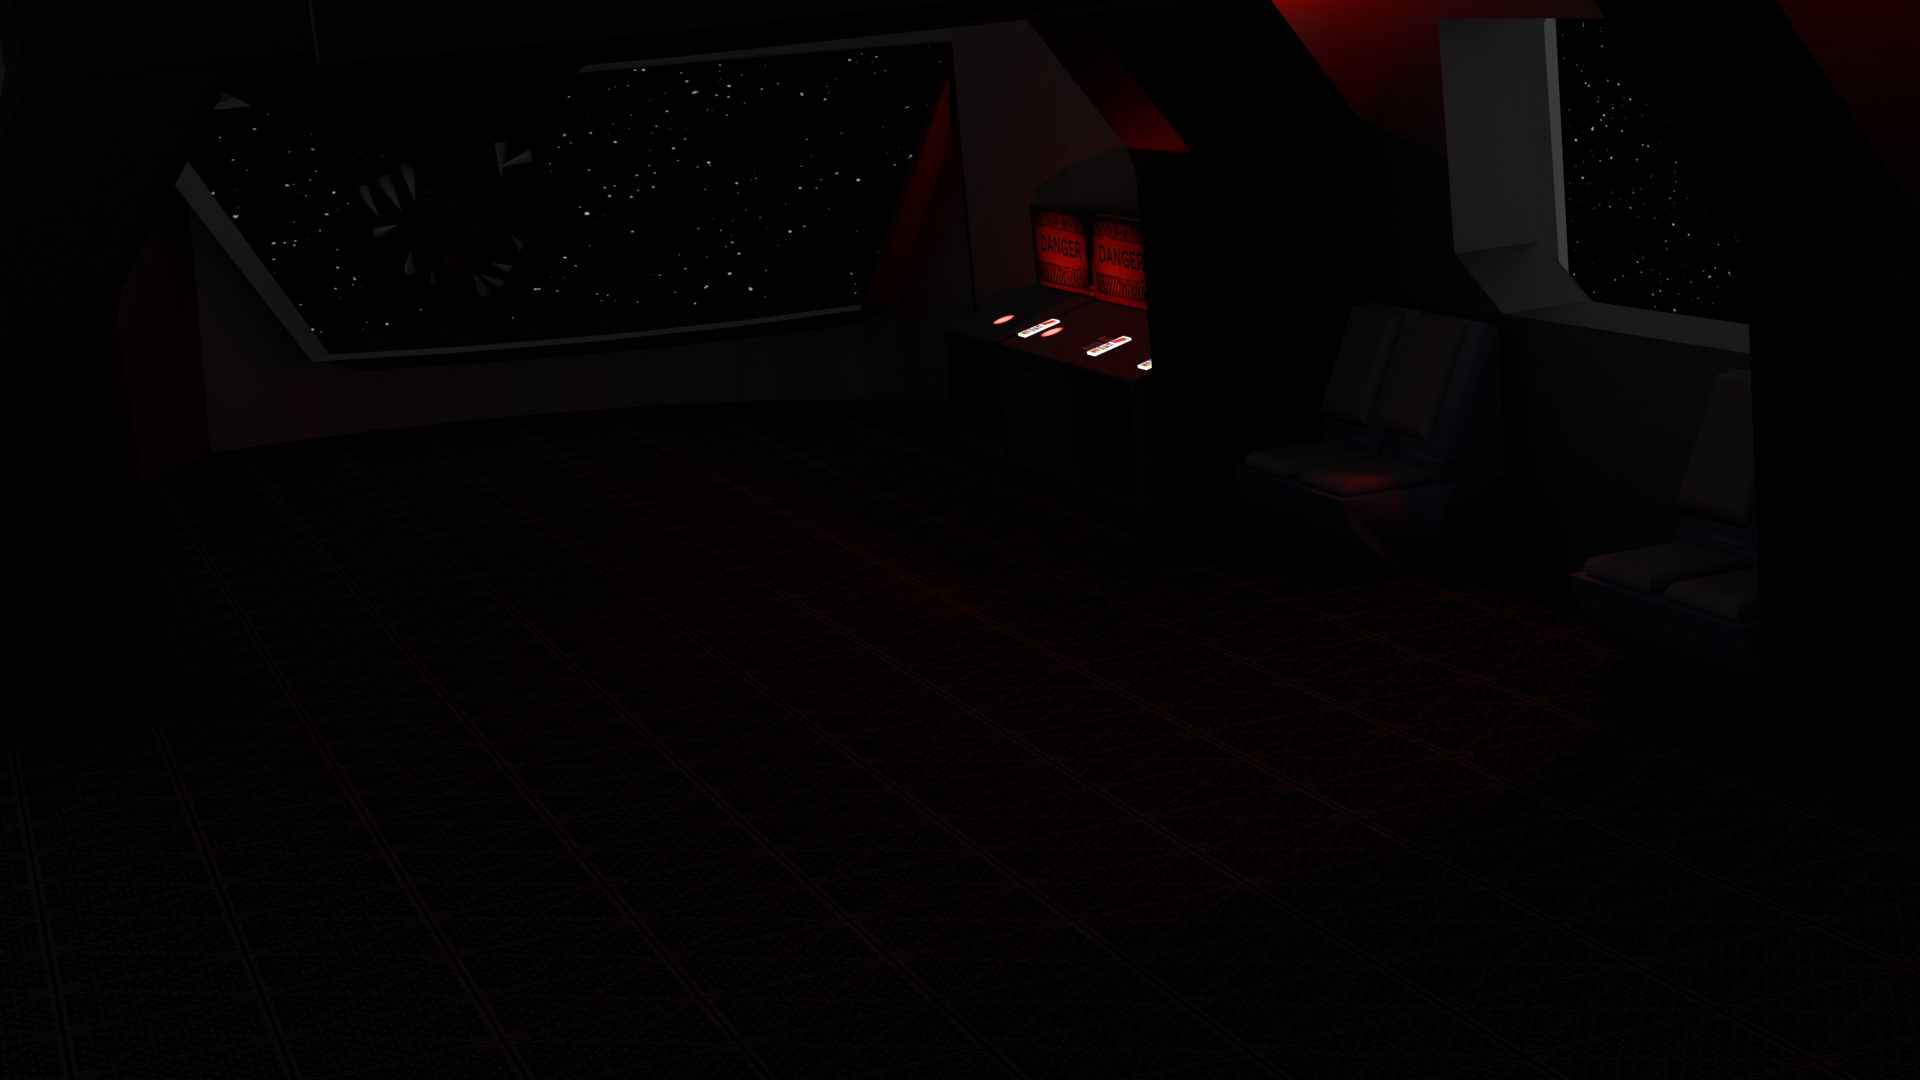
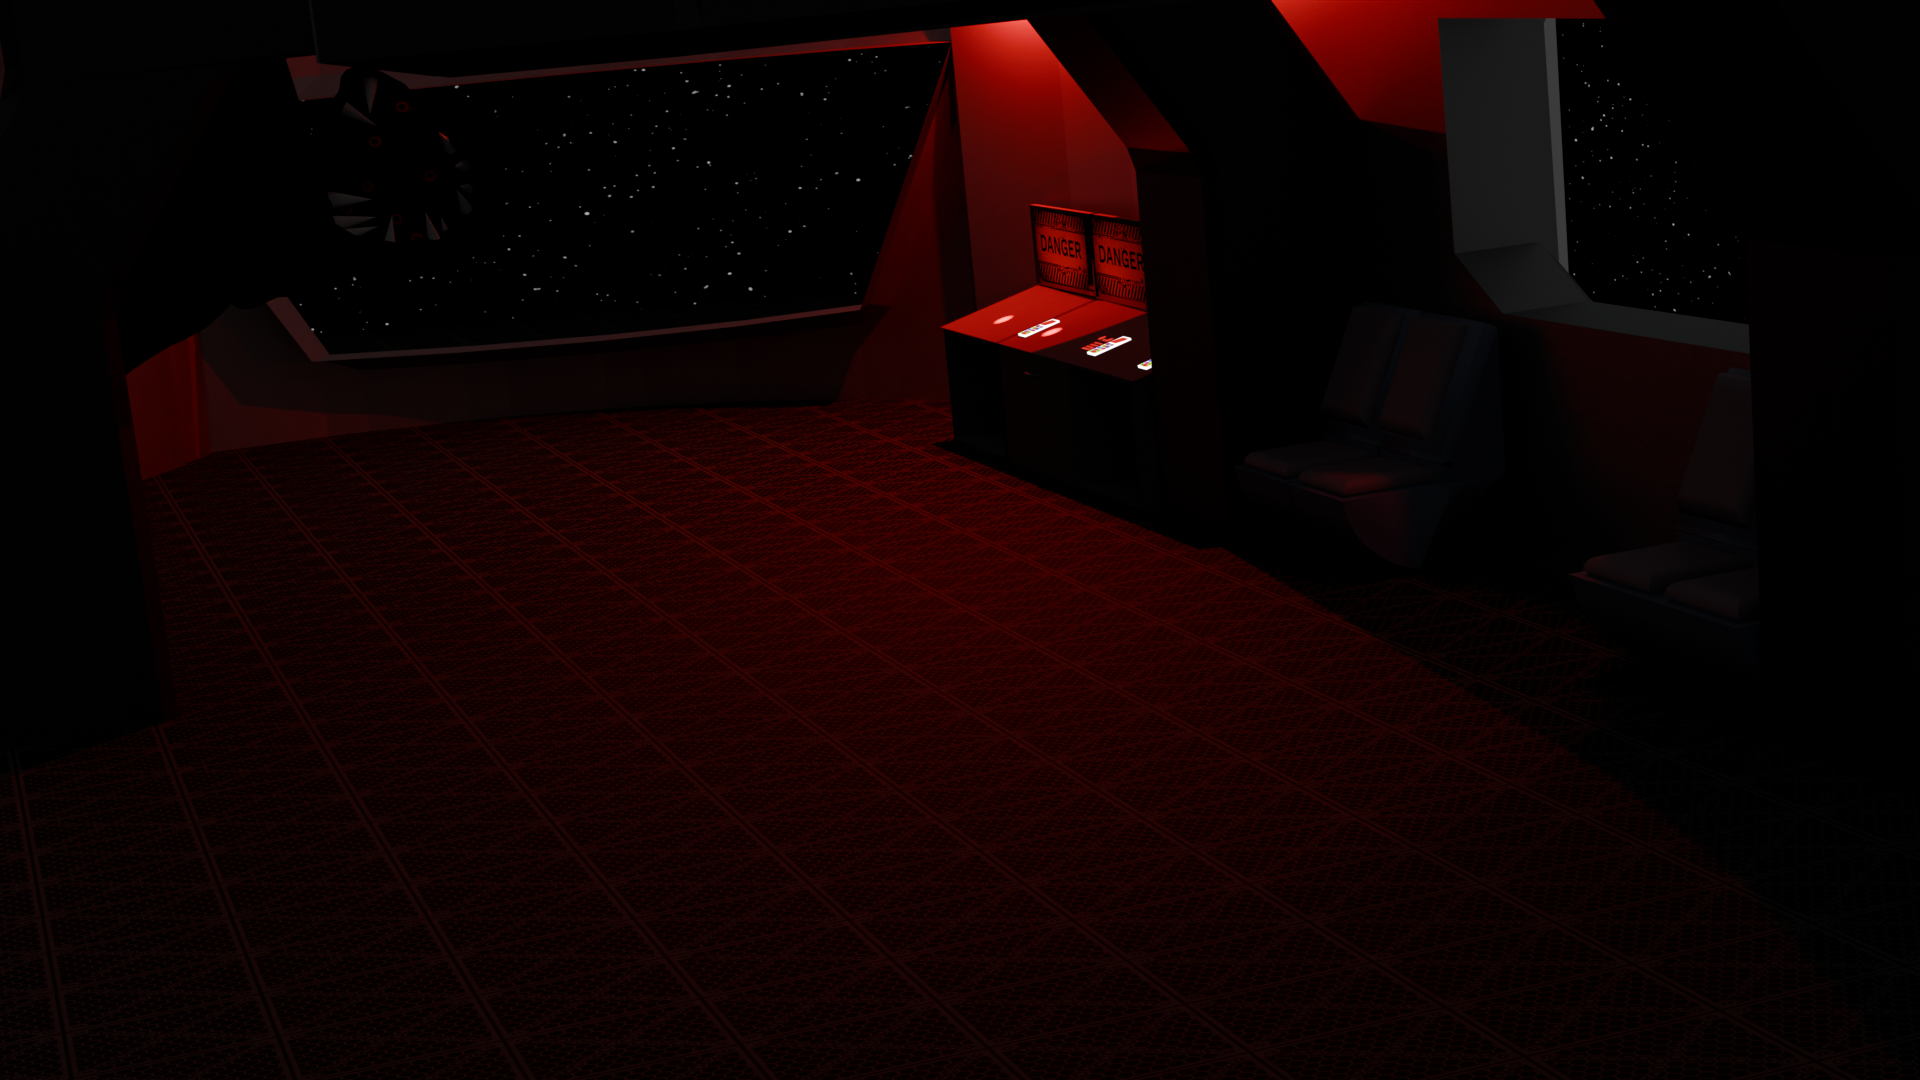
remade backgrounds

diff --git a/src/game_core.c b/src/game_core.c
@@ -31,7 +31,13 @@ void change_camera(case_t * camera, case_t * monster){
     }
 
     if(camera8on && camera->num_camera == CAMERA_1){
-        if (monster->num_camera == CAMERA_1)
+        if(mimic != NULL && mimic->num_camera == CAMERA_1){
+                if(monster->num_camera == CAMERA_1)
+                    background = MONITOR_ROOM_MI_M;
+                else
+                    background = MONITOR_ROOM_MI;
+            }
+        else if (monster->num_camera == CAMERA_1)
             background = MONITOR_ROOM_M;
         else
             background = MONITOR_ROOM;
@@ -271,19 +277,38 @@ void game_init(SDL_Renderer* renderer, SDL_Window* window, TTF_Font* fontBattery
     //Load Textures ( interminable )
     if (BLACKOUT == NULL) {
         BLACKOUT = IMG_LoadTexture(renderer, "./assets/img/INgame/BLACKOUT.png");
-        DOORS_OFF_L_OFF = IMG_LoadTexture(renderer, "./assets/img/INgame/DOORS_OFF_L_OFF.png");
-        DOORS_OFF_L_ON = IMG_LoadTexture(renderer, "./assets/img/INgame/DOORS_OFF_L_ON.png");
-        DOORS_ON_L_ON = IMG_LoadTexture(renderer, "./assets/img/INgame/DOORS_ON_L_ON.png");
-        L_DOOR_OFF_L_ON = IMG_LoadTexture(renderer, "./assets/img/INgame/L_DOOR_OFF_L_ON.png");
-        L_DOOR_ON_L_OFF = IMG_LoadTexture(renderer, "./assets/img/INgame/L_DOOR_ON_L_OFF.png");
-        L_DOOR_ON_L_ON = IMG_LoadTexture(renderer, "./assets/img/INgame/L_DOOR_ON_L_ON.png");
-        R_DOOR_OFF_L_ON = IMG_LoadTexture(renderer, "./assets/img/INgame/R_DOOR_OFF_L_ON.png");
-        R_DOOR_ON_L_OFF = IMG_LoadTexture(renderer, "./assets/img/INgame/R_DOOR_ON_L_OFF.png");
-        R_DOOR_ON_L_ON = IMG_LoadTexture(renderer, "./assets/img/INgame/R_DOOR_ON_L_ON.png");
+
+       // Load Textures (internimable)
+int BLACKOUT = NULL;
+BLACKOUT = IMG_LoadTexture(renderer, "assets/img/InGame/BLACKOUT.png");
+
+R_D_OFF_LI_OFF_L_D_OFF_LI_OFF = IMG_LoadTexture(renderer, "assets/img/InGame/R_D_OFF_LI_OFF_L_D_OFF_LI_OFF.png");
+R_D_OFF_LI_OFF_L_OFF_LI_ON_M_W = IMG_LoadTexture(renderer, "assets/img/InGame/R_D_OFF_LI_OFF_L_D_OFF_LI_ON_M_W.png");
+R_D_OFF_LI_OFF_L_D_OFF_LI_ON_M = IMG_LoadTexture(renderer, "assets/img/InGame/R_D_OFF_LI_OFF_L_D_OFF_LI_ON_M.png");
+R_D_OFF_LI_OFF_L_D_OFF_LI_ON = IMG_LoadTexture(renderer, "assets/img/InGame/R_D_OFF_LI_OFF_L_D_OFF_LI_ON.png");
+R_D_OFF_LI_OFF_L_D_ON_LI_OFF = IMG_LoadTexture(renderer, "assets/img/InGame/R_D_OFF_LI_OFF_L_D_ON_LI_OFF.png");
+R_D_OFF_LI_ON_L_D_OFF_LI_OFF_M_W = IMG_LoadTexture(renderer, "assets/img/InGame/R_D_OFF_LI_ON_L_D_OFF_LI_OFF_M_W.png");
+R_D_OFF_LI_ON_L_D_OFF_LI_OFF_M = IMG_LoadTexture(renderer, "assets/img/InGame/R_D_OFF_LI_ON_L_D_OFF_LI_OFF_M.png");
+R_D_OFF_LI_ON_L_D_OFF_LI_OFF = IMG_LoadTexture(renderer, "assets/img/InGame/R_D_OFF_LI_ON_L_D_OFF_LI_OFF.png");
+R_D_OFF_LI_ON_L_D_OFF_LI_ON_M_D = IMG_LoadTexture(renderer, "assets/img/InGame/R_D_OFF_LI_ON_L_D_OFF_LI_ON_M_D.png");
+R_D_OFF_LI_ON_L_D_OFF_LI_ON_M_W_D = IMG_LoadTexture(renderer, "assets/img/InGame/R_D_OFF_LI_ON_L_D_OFF_LI_ON_M_W_D.png");
+R_D_OFF_LI_ON_L_D_OFF_LI_ON_M_W = IMG_LoadTexture(renderer, "assets/img/InGame/R_D_OFF_LI_ON_L_D_OFF_LI_ON_M_W.png");
+R_D_OFF_LI_ON_L_D_OFF_LI_ON_M = IMG_LoadTexture(renderer, "assets/img/InGame/R_D_OFF_LI_ON_L_D_OFF_LI_ON_M.png");
+R_D_OFF_LI_ON_L_D_OFF_LI_ON = IMG_LoadTexture(renderer, "assets/img/InGame/R_D_OFF_LI_ON_L_D_OFF_LI_ON.png");
+R_D_OFF_LI_ON_L_D_ON_LI_OFF = IMG_LoadTexture(renderer, "assets/img/InGame/R_D_OFF_LI_ON_L_D_ON_LI_OFF.png");
+R_D_ON_LI_OFF_L_D_OFF_LI_OFF = IMG_LoadTexture(renderer, "assets/img/InGame/R_D_ON_LI_OFF_L_D_OFF_LI_OFF.png");
+R_D_ON_LI_OFF_L_D_OFF_LI_ON = IMG_LoadTexture(renderer, "assets/img/InGame/R_D_ON_LI_OFF_L_D_OFF_LI_ON.png");
+R_D_ON_LI_ON_L_D_OFF_LI_OFF_M = IMG_LoadTexture(renderer, "assets/img/InGame/R_D_ON_LI_ON_L_D_OFF_LI_OFF_M.png");
+R_D_ON_LI_ON_L_D_OFF_LI_OFF = IMG_LoadTexture(renderer, "assets/img/InGame/R_D_ON_LI_ON_L_D_OFF_LI_OFF.png");
+R_D_ON_LI_ON_L_D_OFF_LI_ON = IMG_LoadTexture(renderer, "assets/img/InGame/R_D_ON_LI_ON_L_D_OFF_LI_ON.png");
+R_D_OFF_LI_OFF_L_ON_LI_OFF_ON_M_W = IMG_LoadTexture(renderer, "assets/img/InGame/R_D_OFF_L_OFF_L_ON_LI_ON_M_W.png");
+
         MONITOR_ROOM = IMG_LoadTexture(renderer, "./assets/img/INgame/MONITOR_ROOM.png");
         MONITOR_ROOM_M = IMG_LoadTexture(renderer, "./assets/img/INgame/MONITOR_ROOM_M.png");
         MONITOR_ROOM = IMG_LoadTexture(renderer, "./assets/img/INgame/MONITOR_ROOM.png");
         MONITOR_ROOM_M = IMG_LoadTexture(renderer, "./assets/img/INgame/MONITOR_ROOM_M.png");
+        MONITOR_ROOM_MI = IMG_LoadTexture(renderer, "./assets/img/INgame/MONITOR_ROOM_MI.png");
+        MONITOR_ROOM_MI_M = IMG_LoadTexture(renderer, "./assets/img/INgame/MONITOR_ROOM_MI_M.png");
         COMMAND_ROOM = IMG_LoadTexture(renderer, "./assets/img/INgame/COMMAND_ROOM.png");
         COMMAND_ROOM_M = IMG_LoadTexture(renderer, "./assets/img/INgame/COMMAND_ROOM_M.png");
         CORRIDOR = IMG_LoadTexture(renderer, "./assets/img/INgame/CORRIDOR.png");
@@ -403,7 +428,7 @@ void game_init(SDL_Renderer* renderer, SDL_Window* window, TTF_Font* fontBattery
         
         actual = buttons_getDoorCount();
         if (lightCount >= 2)
-            background = DOORS_OFF_L_ON;
+            background = R_D_OFF_LI_ON_L_D_OFF_LI_ON;
 
 
         /*=DIFFERENTS DISPLAYS OF EACH BACKGROUND=*/

diff --git a/src/renderer.c b/src/renderer.c
@@ -294,40 +294,24 @@ void affichage(){
             ouverture_porte_gauche(map, joueur);
             ouverture_porte_droite(map, joueur);
         }
-        else if(lumiereDroiteActive && !porteDroiteActive){
-            if(monster->num_camera == PORTE_HAUT-1){
-                background = MONSTER_R_DOOR_O;
-            }
-        else if(monster->num_camera == PORTE_HAUT){
-                background = MONSTER_R_DOOR_O_A;
-            }
-            else
-                background = R_DOOR_OFF_L_ON;
+        else if(!porteDroiteActive && !lumiereDroiteActive && !porteGaucheActive && !lumiereGaucheActive){
+            background = R_D_OFF_LI_OFF_L_OFF_L_OFF_LI_OFF;
         }
-        else if(lumiereGaucheActive && !porteGaucheActive){
-            if(monster->num_camera == PORTE_BAS-1){
-                background = MONSTER_L_DOOR_O;
-            }
-            else if(monster->num_camera == PORTE_BAS){
-                background = MONSTER_L_DOOR_O_A;
-            }
-            else 
-                background = L_DOOR_OFF_L_ON;
+         else if(porteDroiteActive && porteGaucheActive && !lumiereDroiteActive && !lumiereGaucheActive){
+            background = R_D_OFF_LI_OFF_L_OFF_L_ON_LI_OFF;
         }
-        else if(porteGaucheActive && !lumiereGaucheActive){
-            background = L_DOOR_ON_L_OFF;
+        else if(!porteDroiteActive && !porteGaucheActive && lumiereDroiteActive && lumiereGaucheActive){
+            background = R_D_ON_LI_ON_L_D_OFF_LI_OFF;
         }
-        else if(porteDroiteActive && !lumiereDroiteActive){
-            background = R_DOOR_ON_L_OFF;
+        else if(!porteDroiteActive && !porteGaucheActive && lumiereDroiteActive && !lumiereGaucheActive){
+            background = R_D_ON_LI_OFF_L_D_OFF_LI_OFF;
         }
-        else if(porteGaucheActive && lumiereGaucheActive){
-            background = L_DOOR_ON_L_ON;
+        else if(!porteDroiteActive && !porteGaucheActive && !lumiereDroiteActive && lumiereGaucheActive){
+            background = R_D_OFF_LI_ON_L_D_OFF_LI_OFF;
+            
         }
-        else if(porteDroiteActive && lumiereDroiteActive){
-            background = R_DOOR_ON_L_ON;
-        }
-        else
-            background = DOORS_OFF_L_OFF;
+
+        
     }
     //If the monitor is on we display the camera backgrounds
     else{

diff --git a/lib/constantes.h b/lib/constantes.h
@@ -102,17 +102,31 @@ extern case_t *monster;
 extern case_t *mimic;
 extern SDL_Texture *background;
 extern SDL_Texture *BLACKOUT;
-extern SDL_Texture *DOORS_OFF_L_OFF;
-extern SDL_Texture *DOORS_OFF_L_ON;
-extern SDL_Texture *DOORS_ON_L_ON;
-extern SDL_Texture *L_DOOR_OFF_L_ON;
-extern SDL_Texture *L_DOOR_ON_L_OFF;
-extern SDL_Texture *L_DOOR_ON_L_ON;
-extern SDL_Texture *R_DOOR_OFF_L_ON;
-extern SDL_Texture *R_DOOR_ON_L_OFF;
-extern SDL_Texture *R_DOOR_ON_L_ON;
+extern SDL_Texture *R_D_OFF_LI_OFF_L_D_OFF_LI_OFF;
+extern SDL_Texture *R_D_OFF_LI_OFF_L_OFF_LI_ON_M_W;
+extern SDL_Texture *R_D_OFF_LI_OFF_L_D_OFF_LI_ON_M ;
+extern SDL_Texture *R_D_OFF_LI_OFF_L_D_OFF_LI_ON ;
+extern SDL_Texture *R_D_OFF_LI_OFF_L_D_ON_LI_OFF ;
+extern SDL_Texture *R_D_OFF_LI_ON_L_D_OFF_LI_OFF_M_W ;
+extern SDL_Texture *R_D_OFF_LI_ON_L_D_OFF_LI_OFF_M ;
+extern SDL_Texture *R_D_OFF_LI_ON_L_D_OFF_LI_OFF ;
+extern SDL_Texture *R_D_OFF_LI_ON_L_D_OFF_LI_ON_M_D ;
+extern SDL_Texture *R_D_OFF_LI_ON_L_D_OFF_LI_ON_M_W_D ;
+extern SDL_Texture *R_D_OFF_LI_ON_L_D_OFF_LI_ON_M_W ;
+extern SDL_Texture *R_D_OFF_LI_ON_L_D_OFF_LI_ON_M ;
+extern SDL_Texture *R_D_OFF_LI_ON_L_D_OFF_LI_ON ;
+extern SDL_Texture *R_D_OFF_LI_ON_L_D_ON_LI_OFF ;
+extern SDL_Texture *R_D_ON_LI_OFF_L_D_OFF_LI_OFF ;
+extern SDL_Texture *R_D_ON_LI_OFF_L_D_OFF_LI_ON ;
+extern SDL_Texture *R_D_ON_LI_ON_L_D_OFF_L_I_OFF_M ;
+extern SDL_Texture *R_D_ON_LI_ON_L_D_OFF_LI_OFF_M ;
+extern SDL_Texture *R_D_ON_LI_ON_L_D_OFF_LI_OFF ;
+extern SDL_Texture *R_D_ON_LI_ON_L_D_OFF_LI_ON ;
+extern SDL_Texture *R_D_OFF_LI_OFF_L_ON_LI_OFF_ON_M_W ;
 extern SDL_Texture *MONITOR_ROOM;
 extern SDL_Texture *MONITOR_ROOM_M;
+extern SDL_Texture *MONITOR_ROOM_MI;
+extern SDL_Texture *MONITOR_ROOM_MI_M;
 extern SDL_Texture *CORRIDOR;
 extern SDL_Texture *CORRIDOR_M;
 extern SDL_Texture *COMMAND_ROOM;
@@ -173,7 +187,6 @@ extern int lightCount;
 extern Mix_Music* cameraStatic;
 extern Mix_Chunk* cameraSwitch;
 extern Mix_Chunk* doorKnocking;
-
 extern Mix_Chunk* monsterSpawn;
 extern Mix_Chunk* mimicMove;
 #endif

diff --git a/src/constantes.c b/src/constantes.c
@@ -40,17 +40,10 @@ case_t *monster = NULL;
 case_t *mimic = NULL;
 SDL_Texture *background = NULL;
 SDL_Texture *BLACKOUT = NULL;
-SDL_Texture *DOORS_OFF_L_OFF = NULL;
-SDL_Texture *DOORS_OFF_L_ON = NULL;
-SDL_Texture *DOORS_ON_L_ON = NULL;
-SDL_Texture *L_DOOR_OFF_L_ON = NULL;
-SDL_Texture *L_DOOR_ON_L_OFF = NULL;
-SDL_Texture *L_DOOR_ON_L_ON = NULL;
-SDL_Texture *R_DOOR_OFF_L_ON = NULL;
-SDL_Texture *R_DOOR_ON_L_OFF = NULL;
-SDL_Texture *R_DOOR_ON_L_ON = NULL;
 SDL_Texture *MONITOR_ROOM = NULL;
 SDL_Texture *MONITOR_ROOM_M = NULL;
+SDL_Texture *MONITOR_ROOM_MI = NULL;
+SDL_Texture *MONITOR_ROOM_MI_M = NULL;
 SDL_Texture *COMMAND_ROOM = NULL;
 SDL_Texture *COMMAND_ROOM_M = NULL;
 SDL_Texture *STATIC = NULL;
@@ -60,6 +53,26 @@ SDL_Texture *MONSTER_L_DOOR_O = NULL;
 SDL_Texture *MONSTER_R_DOOR_C = NULL;
 SDL_Texture *MONSTER_R_DOOR_O_A = NULL;
 SDL_Texture *MONSTER_R_DOOR_O = NULL;
+SDL_Texture *R_D_OFF_LI_OFF_L_D_OFF_LI_OFF  = NULL;
+SDL_Texture *R_D_OFF_LI_OFF_L_OFF_LI_ON_M_W  = NULL;
+SDL_Texture *R_D_OFF_LI_OFF_L_D_OFF_LI_ON_M = NULL;
+SDL_Texture *R_D_OFF_LI_OFF_L_D_OFF_LI_ON = NULL;
+SDL_Texture *R_D_OFF_LI_OFF_L_D_ON_LI_OFF = NULL;
+SDL_Texture *R_D_OFF_LI_ON_L_D_OFF_LI_OFF_M_W = NULL;
+SDL_Texture *R_D_OFF_LI_ON_L_D_OFF_LI_OFF_M = NULL;
+SDL_Texture *R_D_OFF_LI_ON_L_D_OFF_LI_OFF = NULL;
+SDL_Texture *R_D_OFF_LI_ON_L_D_OFF_LI_ON_M_D = NULL;
+SDL_Texture *R_D_OFF_LI_ON_L_D_OFF_LI_ON_M_W_D = NULL;
+SDL_Texture *R_D_OFF_LI_ON_L_D_OFF_LI_ON_M_W = NULL;
+SDL_Texture *R_D_OFF_LI_ON_L_D_OFF_LI_ON_M = NULL;
+SDL_Texture *R_D_OFF_LI_ON_L_D_OFF_LI_ON = NULL;
+SDL_Texture *R_D_OFF_LI_ON_L_D_ON_LI_OFF = NULL;
+SDL_Texture *R_D_ON_LI_OFF_L_D_OFF_LI_OFF = NULL;
+SDL_Texture *R_D_ON_LI_OFF_L_D_OFF_LI_ON = NULL;
+SDL_Texture *R_D_ON_LI_ON_L_D_OFF_LI_OFF_M = NULL;
+SDL_Texture *R_D_ON_LI_ON_L_D_OFF_LI_OFF = NULL;
+SDL_Texture *R_D_ON_LI_ON_L_D_OFF_LI_ON = NULL;
+SDL_Texture *R_D_OFF_LI_OFF_L_ON_LI_OFF_ON_M_W = NULL;
 SDL_Texture *L_D = NULL;
 SDL_Texture *L_D_M = NULL;
 SDL_Texture *L_D_MI = NULL;
